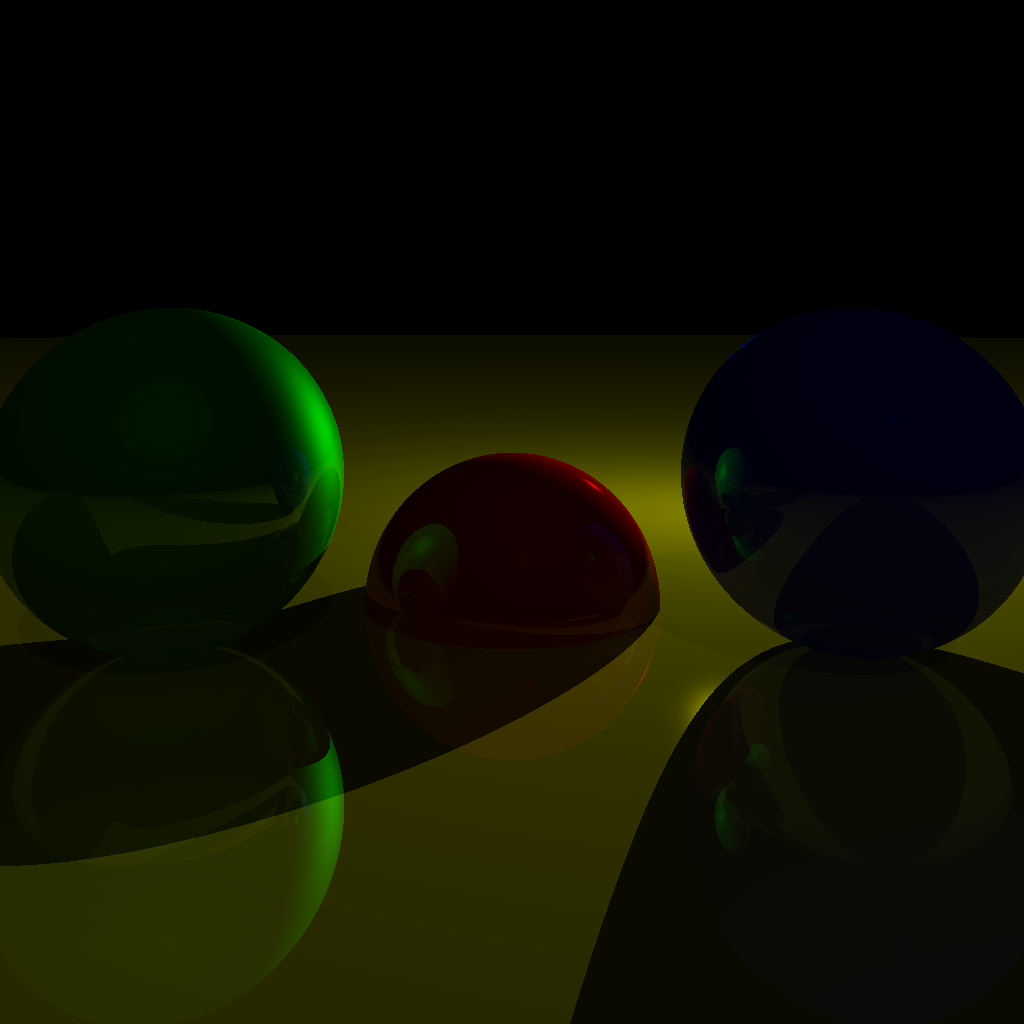
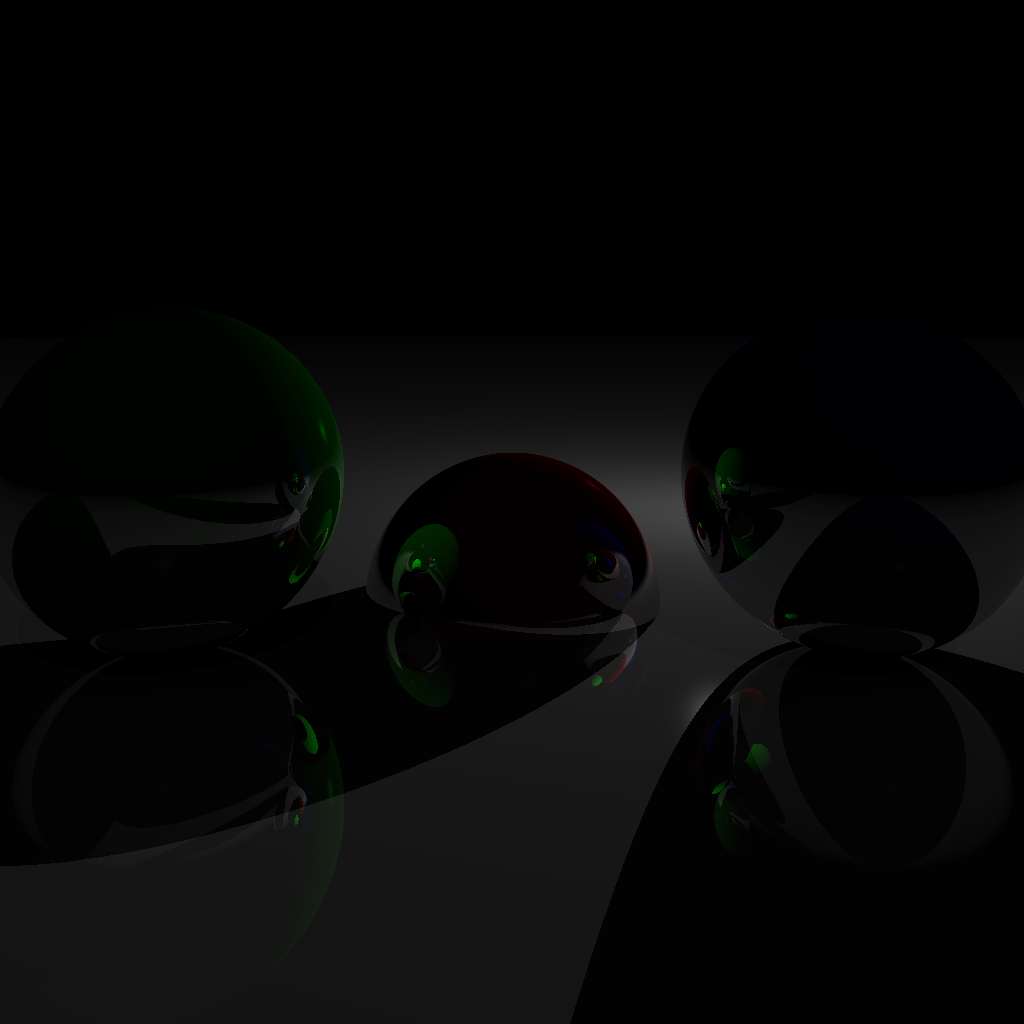
Added initial (bug-ridden) support for triangles.

Changed region(s): [[0.2188, 0.3125, 0.7812, 0.75], [0.0, 0.6875, 0.3438, 1.0], [0.9062, 0.5625, 1.0, 0.6562]]

diff --git a/renderer/renderer.py b/renderer/renderer.py
@@ -35,6 +35,14 @@ class Renderer:
     def _dotProduct(self, a:tuple, b:tuple) -> float:
         return a[0]*b[0] + a[1]*b[1] + a[2]*b[2]
 
+
+    def _crossProduct(self, a:tuple, b:tuple) -> tuple[float]:
+        return ( 
+            a[1]*b[2] - a[2]*b[1],
+            a[2]*b[0] - a[0]*b[2],
+            a[0]*b[1] - a[1]*b[0]
+        )
+
     def _subtractVec(self, a:tuple, b:tuple) -> tuple[float]:
         return (a[0]-b[0], a[1]-b[1], a[2]-b[2])
     
@@ -54,6 +62,9 @@ class Renderer:
 
     def _reflectVec(self, v1:tuple, v2:tuple) -> tuple[float]:
         return self._subtractVec(self._multiplyVec(2.0 * self._dotProduct(v2, v1), v2), v1)
+
+    def _invertVec(self, vec:tuple) -> tuple:
+        return (-vec[0], -vec[1], -vec[2])
 
     def _lengthVec(self, a:tuple) -> float:
         return math.sqrt(self._dotProduct(a, a))
@@ -122,25 +133,89 @@ class Renderer:
 
         return t_1, t_2
 
+    def _intersectRayTriangle(self, origin, direction_vec, triangle):
+
+        p1 = triangle.points[0]
+        p2 = triangle.points[1]
+        p3 = triangle.points[2]
+
+        # Compute the normal of the plane that contains the triangle
+        p1p2 = self._subtractVec(p2, p1)
+        p1p3 = self._subtractVec(p3, p1)
+
+        plane_normal_vec = triangle.normal_vec
+
+        # Find the distance between the plane and the origin point
+        # plane_normal_len = self._lengthVec(plane_normal_vec)
+
+        d = self._dotProduct(plane_normal_vec, p1)
+
+        # Calculate P - - - 
+
+        # Check if direction_vec and plane are parallel
+        normal_dot_dir = self._dotProduct(plane_normal_vec, direction_vec)
+
+        if normal_dot_dir < EPSILON and normal_dot_dir > 0: # If the dot product is practically zero, they are parallel
+            return math.inf
+        
+        # Compute d
+        d = self._dotProduct(plane_normal_vec, p1)
+
+        # Compute t
+        t = (d - self._dotProduct(plane_normal_vec, origin)) / normal_dot_dir
+
+        # Check if the triangle is behind the ray
+        if t < 0: return math.inf
+
+        # Compute the point of intersection
+        p = self._addVec(origin, self._multiplyVec(t, direction_vec))
+
+        # Inside-Out Test - - - 
+
+        p1p = self._subtractVec(p, p1)
+
+        p2p3 = self._subtractVec(p3, p2)
+        p2p = self._subtractVec(p, p2)
+        p3p1 = self._subtractVec(p1, p3)
+        p3p = self._subtractVec(p, p3)
+
+        u = self._crossProduct(p1p2, p1p)
+        v = self._crossProduct(p2p3, p2p)
+        w = self._crossProduct(p3p1, p3p)
+        
+        # Check if the point is inside the triangle using the barycentric coordinates
+        if (self._dotProduct(u, v) >= 0) and (self._dotProduct(v, w) >= 0):
+            print("Intersected!")
+            return t
+        else:
+            return math.inf
+
     def _calculateClosestIntersection(self, origin, direction_vec, t_min, t_max):
         closest_obj = None
         closest_t = math.inf
 
         for world_obj in self.world.objects:
 
-            t_1, t_2 = self._intersectRaySphere(origin, direction_vec, world_obj)
-            if t_min < t_1 < t_max and t_1 < closest_t:
-                closest_t = t_1
-                closest_obj = world_obj
-            if t_min < t_2 < t_max and t_2 < closest_t:
-                closest_t = t_2
-                closest_obj = world_obj
+            if world_obj.__class__.__name__ == "Sphere":
+                t_1, t_2 = self._intersectRaySphere(origin, direction_vec, world_obj)
+                if t_min < t_1 < t_max and t_1 < closest_t:
+                    closest_t = t_1
+                    closest_obj = world_obj
+                if t_min < t_2 < t_max and t_2 < closest_t:
+                    closest_t = t_2
+                    closest_obj = world_obj
+            elif world_obj.__class__.__name__ == "Triangle":
+                t_1 = self._intersectRayTriangle(origin, direction_vec, world_obj)
+                if t_min < t_1 < t_max and t_1 < closest_t:
+                    closest_t = t_1
+                    closest_obj = world_obj
 
+            # print("Closest object!", closest_obj, closest_t)
         return closest_obj, closest_t
     
     def _traceRay(self, origin, direction_vec, t_min, t_max, recursion_depth:int=3):
-        closest_sphere, closest_t = self._calculateClosestIntersection(origin, direction_vec, t_min, t_max)
-        if closest_sphere == None:
+        closest_obj, closest_t = self._calculateClosestIntersection(origin, direction_vec, t_min, t_max)
+        if closest_obj == None:
             return self.background_color
         
         # Compute intersection
@@ -148,8 +223,11 @@ class Renderer:
         point = self._addVec(origin, self._multiplyVec(closest_t, direction_vec))
 
         # Compute sphere normal at intersection
-        normal_vec = self._subtractVec(point, closest_sphere.position)
-
+        if closest_obj.__class__.__name__ == "Sphere":
+            normal_vec = self._subtractVec(point, closest_obj.position)
+        elif closest_obj.__class__.__name__ == "Triangle":
+            normal_vec = closest_obj.normal_vec
+            
         # Normalize
         normal_length = self._lengthVec(normal_vec)
 
@@ -158,20 +236,25 @@ class Renderer:
         
         normal_vec = self._multiplyVec(1.0 / normal_length, normal_vec)
 
+        # Invert triangle normals for proper lighting
+        if closest_obj.__class__.__name__ == "Triangle":
+            if normal_vec[0] < 0 and normal_vec[1] < 0 and normal_vec[2] < 0:
+                normal_vec = self._multiplyVec(-1, normal_vec)
+
         # View vector is simply the inverse of the ray direction vector
         view_vec = self._multiplyVec(-1, direction_vec)
 
-        lighting = self._computeLighting(point, normal_vec, view_vec, closest_sphere.specular)
-        local_color = self._multiplyVec(lighting, closest_sphere.color)
+        lighting = self._computeLighting(point, normal_vec, view_vec, closest_obj.specular)
+        local_color = self._multiplyVec(lighting, closest_obj.color)
 
-        if closest_sphere.reflective <= 0 or recursion_depth <= 0:
+        if closest_obj.reflective <= 0 or recursion_depth <= 0:
             return self._clampColorVec(local_color)
         
         reflected_vec = self._reflectVec(view_vec, normal_vec)
         reflected_color = self._traceRay(point, reflected_vec, EPSILON, math.inf, recursion_depth-1)
 
 
-        local_color = self._addVec(self._multiplyVec(1 - closest_sphere.reflective, local_color), self._multiplyVec(closest_sphere.reflective, reflected_color))
+        local_color = self._addVec(self._multiplyVec(1 - closest_obj.reflective, local_color), self._multiplyVec(closest_obj.reflective, reflected_color))
         return self._clampColorVec(local_color)
 
     def render(self) -> Image:

diff --git a/modeler/world_object.py b/modeler/world_object.py
@@ -6,6 +6,44 @@ class WorldObject:
     color:tuple[float]     = (0,0,0)
     specular:int           = -1
     reflective:float       = 0.0
+    points:tuple[tuple]    = None
+
+    def _dotProduct(self, a:tuple, b:tuple) -> float:
+        return a[0]*b[0] + a[1]*b[1] + a[2]*b[2]
+
+
+    def _crossProduct(self, a:tuple, b:tuple) -> tuple[float]:
+        return ( 
+            a[1]*b[2] - a[2]*b[1],
+            a[2]*b[0] - a[0]*b[2],
+            a[0]*b[1] - a[1]*b[0]
+        )
+
+    def _subtractVec(self, a:tuple, b:tuple) -> tuple[float]:
+        return (a[0]-b[0], a[1]-b[1], a[2]-b[2])
+    
+    def _multiplyVec(self, k:float, vec:tuple) -> tuple[float]:
+        return (k*vec[0], k*vec[1], k*vec[2])
+
+    def _multiplyMat(self, mat, vec):
+        result_vec = [0, 0, 0]
+        for i in range(0, 3):
+            for j in range(0, 3):
+                result_vec[i] += vec[j] * mat[i][j]
+        
+        return tuple(result_vec)
+
+    def _addVec(self, a:tuple, b:tuple) -> tuple[float]:
+        return (a[0]+b[0], a[1]+b[1], a[2]+b[2])
+
+    def _reflectVec(self, v1:tuple, v2:tuple) -> tuple[float]:
+        return self._subtractVec(self._multiplyVec(2.0 * self._dotProduct(v2, v1), v2), v1)
+
+    def _invertVec(self, vec:tuple) -> tuple:
+        return (-vec[0], -vec[1], -vec[2])
+
+    def _lengthVec(self, a:tuple) -> float:
+        return math.sqrt(self._dotProduct(a, a))
     
     def __init__(self, position):
         self.position = position

diff --git a/tri_tests.py b/tri_tests.py
@@ -1,0 +1,44 @@
+from renderer import Renderer
+from modeler import *
+
+poly_world = World(ppu=1024)
+
+# Background Spheres
+poly_world.addObject(Sphere(.3, (0.35, 0, 1.8), (255, 150, 64), 100, 0.3))
+poly_world.addObject(Sphere(.3, (-0.35, 0, 1.8), (100, 100, 255), 100, 0.3))
+# poly_world.addObject(Sphere(.1, (-.3, 0, 3), (200, 150, 64)))
+# poly_world.addObject(Sphere(.1, (0, -0.3, 2), (100, 150, 64)))
+
+# # First poly!
+a1 = (0, 0.5, 2)
+a2 = (0.001, 0.501, 2.001)
+b1 = (-0.3, 0, 3)
+b2 = (0.3, 0, 3)
+c1 = (0, -0.3, 1)
+c2 = (0.001, -0.3001, 2.001)
+
+poly_world.addObject(Triangle((a1, b1, c1),(0,255,0), 100, 0.3))
+poly_world.addObject(Triangle((a2, b2, c2),(0,255,0), 100, 0.3))
+
+
+# # Second poly!
+# a = (1, 0, 5)
+# b = (1, 1, 5)
+# c = (-2, 0.5, 12)
+
+# poly_world.addObject(Triangle((a, b, c),(0,255,0), 1, 0.1))
+
+
+# Lights
+poly_world.addObject(AmbientLight(0.2))
+poly_world.addObject(PointLight(0.9,(-2,5,4)))
+poly_world.addObject(DirectionalLight(0.2,(1,4,4)))
+
+r_t = Renderer(poly_world, pixel_dimensions=(1024,1024))
+
+r_t.setCameraPosition((0,0.0,0))
+
+
+frame_img = r_t.render()
+frame_img.save("tri_tests.png")
+# print(poly_world.objects[0].normal_vec)

diff --git a/chapter_5.py b/chapter_5.py
@@ -5,13 +5,13 @@ from modeler import *
 my_world = World(ppu=1024)
 
 # Spheres
-my_world.addObject(Sphere(1, (0,-1,3), (255,0,0), 500, 0.2))
-my_world.addObject(Sphere(1, (2,0,4), (0,0,255), 500, 0.3))
-my_world.addObject(Sphere(1, (-2,0,4), (0,255,0), 10, 0.4))
-my_world.addObject(Sphere(5000, (0,-5001,0), (255,255,0), 1000, 0.5))
+my_world.addObject(Sphere(1, (0,-1,3), (255,0,0), 500, 0.8))
+my_world.addObject(Sphere(1, (2,0,4), (0,0,255), 500, 0.8))
+my_world.addObject(Sphere(1, (-2,0,4), (0,255,0), 500, 0.8))
+my_world.addObject(Sphere(5000, (0,-5001,0), (150,150,150), 1000, 0.5))
 
 # Lights
-my_world.addObject(AmbientLight(0.05))
+# my_world.addObject(AmbientLight(0))
 my_world.addObject(PointLight(0.9,(2,1,0)))
 my_world.addObject(DirectionalLight(0.05,(1,4,4)))
 

diff --git a/modeler/triangle.py b/modeler/triangle.py
@@ -1,0 +1,20 @@
+from modeler.world_object import WorldObject
+
+class Triangle(WorldObject):
+
+    def __init__(self, points:tuple[tuple], color:tuple[float], specular:int=-1, reflective:float=0.0):
+        self.points = points
+        self.color = color
+        self.specular = specular
+        self.reflective = reflective
+
+        # Calculate normal of triangle
+        p1 = self.points[0]
+        p2 = self.points[1]
+        p3 = self.points[2]
+
+        # Compute the normal of the plane that contains the triangle
+        p1p2 = self._subtractVec(p2, p1)
+        p1p3 = self._subtractVec(p3, p1)
+
+        self.normal_vec = self._crossProduct(p1p2, p1p3)

diff --git a/modeler/__init__.py b/modeler/__init__.py
@@ -1,4 +1,5 @@
 from modeler.world import *
 from modeler.world_object import *
 from modeler.sphere import *
+from modeler.triangle import *
 from modeler.light import AmbientLight, PointLight, DirectionalLight
